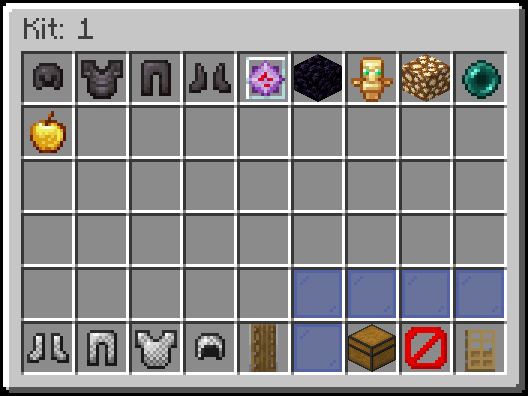
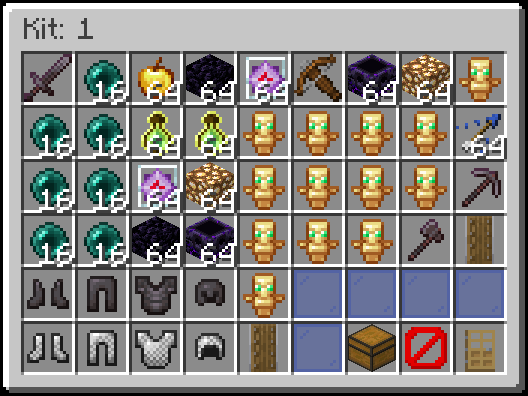
Drop rank-perk framing from docs and capture the kit editor from the starter kit
The permissions, public kits, and regear pages showed regear and public
kits as donor perks. Reword them as turning a feature off for one group.

The kit editor screenshot was built from an unordered item list. The
screenshot tool now accepts a slot layout, including armor and off-hand,
and mirrors the bundled crystal kit so the image matches what a server
gets from autosetup.

diff --git a/tools/screenshots/capture.js b/tools/screenshots/capture.js
@@ -14,10 +14,34 @@ const SAVE_BARRIER = 53               // kit room save
 const EDITABLE = 45                   // slots 0..44 hold items
 const CHEST = 54                      // window slots 0..53 = chest, 54.. = player inv
 
+const IMPORT_SLOT = 51                // kit editor: copy inventory into the editor
+
 const KITS = JSON.parse(fs.readFileSync(__dirname + '/kits.json', 'utf8'))
 const PAGES = KITS.kitRoomPages
-const PUBLIC_KITS = Object.fromEntries(
-  Object.entries(KITS.publicKits).map(([id, k]) => [id, k.items]))
+const PUBLIC_KITS = KITS.publicKits   // id -> { items } or { layout }
+
+// Bukkit inventory index (what the kit editor and kits.json use) -> mineflayer
+// inventory slot. 0-8 hotbar, 9-35 main, 36-39 boots..helmet, 40 offhand.
+const ARMOR_NAMES = { boots: 36, leggings: 37, chestplate: 38, helmet: 39, offhand: 40 }
+function botSlot(bukkit) {
+  if (bukkit <= 8) return 36 + bukkit
+  if (bukkit <= 35) return bukkit
+  if (bukkit <= 39) return 8 - (bukkit - 36)   // 36 boots -> 8 ... 39 helmet -> 5
+  return 45                                    // offhand
+}
+// Expand { "0": "x", "9-10": "y x16", "helmet": "z" } into [[bukkitIndex, id, count]].
+function expandLayout(layout) {
+  const out = []
+  for (const [key, val] of Object.entries(layout)) {
+    const m = /^(\S+?)(?:\s+x(\d+))?$/.exec(val.trim())
+    const id = m[1], count = m[2] ? Number(m[2]) : 1
+    let lo, hi
+    if (key in ARMOR_NAMES) lo = hi = ARMOR_NAMES[key]
+    else { const r = key.split('-').map(Number); lo = r[0]; hi = r[1] ?? r[0] }
+    for (let i = lo; i <= hi; i++) out.push([i, id, count])
+  }
+  return out
+}
 
 const sleep = ms => new Promise(r => setTimeout(r, ms))
 const log = (...a) => console.log('[capture]', ...a)
@@ -70,13 +94,41 @@ async function giveItems(ids) {
     await sleep(25)
   }
 }
+// Put a layout into the bot's inventory at the exact slots it names, armor
+// and off-hand included, so a save or import keeps the arrangement.
+async function giveLayout(layout) {
+  // The creative API cannot write slot 45 (off-hand), so stage that item in a
+  // main slot first and equip it from there, before the main slots fill up.
+  const entries = expandLayout(layout)
+  const off = entries.find(e => e[0] === 40)
+  if (off) {
+    const d = mcData.itemsByName[off[1]]
+    if (d) {
+      await bot.creative.setInventorySlot(9, new Item(d.id, off[2])); await sleep(100)
+      await bot.equip(bot.inventory.slots[9], 'off-hand'); await sleep(150)
+    }
+  }
+  for (const [idx, id, count] of entries) {
+    if (idx === 40) continue
+    const d = mcData.itemsByName[id]
+    if (!d) { log('unknown item', id); continue }
+    await bot.creative.setInventorySlot(botSlot(idx), new Item(d.id, count))
+    await sleep(25)
+  }
+}
+async function give(kit) { return kit.layout ? giveLayout(kit.layout) : giveItems(kit.items) }
 async function clearInv() {
-  for (let i = 9; i < 45; i++) { await bot.creative.setInventorySlot(i, null); await sleep(8) }
+  for (let i = 5; i < 45; i++) { await bot.creative.setInventorySlot(i, null); await sleep(8) }
+  if (bot.inventory.slots[45]) {                 // off-hand: move it into the now-empty inventory, then clear it
+    try { await bot.unequip('off-hand') } catch (e) { log('unequip failed', e.message) }
+    await sleep(100)
+    for (let i = 9; i < 45; i++) if (bot.inventory.slots[i]) { await bot.creative.setInventorySlot(i, null); await sleep(8) }
+  }
 }
 
 async function seedPublicKits() {
-  for (const [id, items] of Object.entries(PUBLIC_KITS)) {
-    await clearInv(); await giveItems(items); await sleep(200)
+  for (const [id, kit] of Object.entries(PUBLIC_KITS)) {
+    await clearInv(); await give(kit); await sleep(200)
     bot.chat(`/savepublickit ${id}`); await sleep(500)
     log('saved public kit', id)
   }
@@ -104,13 +156,17 @@ async function seedKitRoom() {
 async function seedPlayerKits() {
   const loadouts = KITS.playerKits.map(id => PUBLIC_KITS[id])
   for (let s = 0; s < loadouts.length; s++) {
-    await clearInv(); await giveItems(loadouts[s]); await sleep(250)
+    await clearInv(); await give(loadouts[s]); await sleep(250)
     bot.chat('/kit'); await waitWindow()
     await bot.clickWindow(KIT_SLOT(s), 0, 0); await sleep(700)      // open kit editor
-    const n = loadouts[s].length
-    for (let k = 0; k < n; k++) {
-      await bot.clickWindow(CHEST + k, 0, 0); await sleep(60)
-      await bot.clickWindow(k, 0, 0); await sleep(60)
+    if (loadouts[s].layout) {
+      await bot.clickWindow(IMPORT_SLOT, 0, 0); await sleep(400)    // import keeps slot positions
+    } else {
+      const n = loadouts[s].items.length
+      for (let k = 0; k < n; k++) {
+        await bot.clickWindow(CHEST + k, 0, 0); await sleep(60)
+        await bot.clickWindow(k, 0, 0); await sleep(60)
+      }
     }
     await closeWin()                                                 // close saves the kit
     log('saved player kit', s + 1)

diff --git a/tools/screenshots/render.py b/tools/screenshots/render.py
@@ -57,6 +57,9 @@ class Font:
         self._w[ch] = (bbox[2] // px + 1) if bbox else 4
         return self._w[ch]
 
+    def width(self, text):
+        return sum(self.advance(ch) for ch in text)
+
     def draw(self, canvas, text, x, y, scale, rgb):
         """Draw text at `scale` output pixels per font pixel."""
         size = 8 * scale
@@ -75,6 +78,7 @@ def render(cap, out_path):
     W, H = int(panel.width * up), int(panel.height * up)
     img = panel.resize((W, H), Image.NEAREST)
 
+    f = Font()
     missing = set()
     for s in cap["slots"]:
         if s["i"] >= rows * 9:
@@ -86,8 +90,14 @@ def render(cap, out_path):
         x = (SLOT0[0] + 1 + (s["i"] % 9) * PITCH) * SCALE
         y = (SLOT0[1] + 1 + (s["i"] // 9) * PITCH) * SCALE
         img.paste(ic, (x, y), ic)
+        if s.get("count", 1) > 1:
+            # Vanilla draws the stack size bottom-right of the icon, with a shadow.
+            txt = str(s["count"])
+            tx = x + (17 - f.width(txt)) * SCALE
+            ty = y + 9 * SCALE
+            f.draw(img, txt, tx + SCALE, ty + SCALE, SCALE, (63, 63, 63))
+            f.draw(img, txt, tx, ty, SCALE, (255, 255, 255))
 
-    f = Font()
     f.draw(img, cap.get("title") or "", TITLE_AT[0] * SCALE, TITLE_AT[1] * SCALE,
            SCALE, TITLE_RGB)
 
